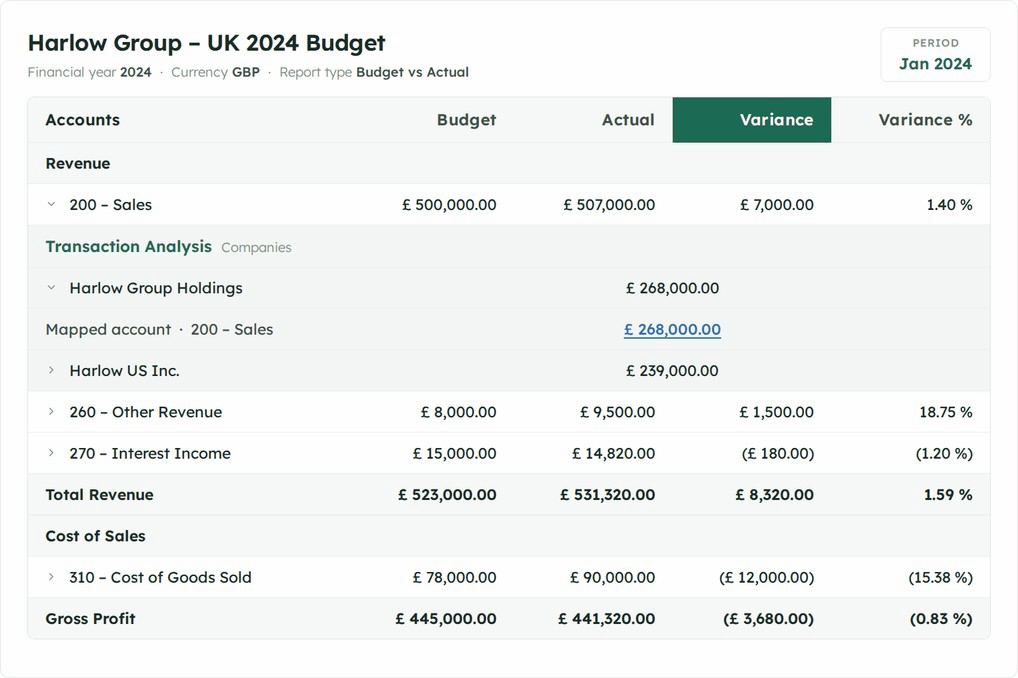
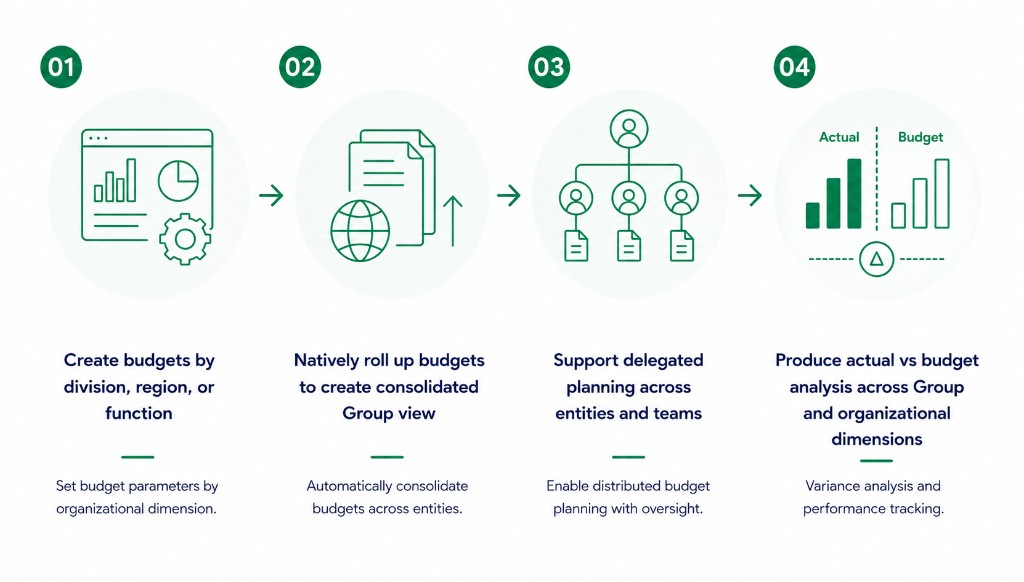
Update image sources and replace placeholders in group planning and reporting modules
- Updated image sources for group financial reporting and planning workflows to new versions for cache management.
- Replaced outdated screenshot placeholders with actual images for improved content relevance and user experience.

diff --git a/modules/group-reporting.html b/modules/group-reporting.html
@@ -40,7 +40,7 @@
     </div>
     <div class="mod-hero-media sr">
       <div class="screenshot-frame screenshot-frame--tall screenshot-frame--filled">
-        <img src="../assets/images/group-reporting-workflow.png?v=20260723e" alt="GATHER.nexus Consolidated P&amp;L Report showing subscriptions, transactions, and professional services with drill-down by company and mapped account across Jan–Mar" width="1024" height="699" loading="eager" decoding="async">
+        <img src="../assets/images/consolidated-pl-report.png?v=20260724a" alt="GATHER.nexus Consolidated P&amp;L Report showing subscriptions, transactions, and professional services with drill-down by company and mapped account across Jan–Mar" width="1024" height="699" loading="eager" decoding="async">
       </div>
     </div>
   </div>
@@ -100,13 +100,8 @@ BLOCKING: Cannot implement until client specifies exact requirement
     </div>
     <div class="mod-step-media sr sr-d1">
       <div class="mod-step-screenshots">
-        <div class="screenshot-frame screenshot-frame--tall" role="img" aria-label="Create GRT screenshot placeholder">
-          <div class="screenshot-frame__inner">
-            <div class="screenshot-frame__ic"><svg viewBox="0 0 24 24" fill="none" stroke="currentColor" stroke-width="1.8"><rect x="3" y="5" width="18" height="14" rx="2"/><circle cx="8.5" cy="10.5" r="1.5"/><path d="M21 16l-5.5-5.5L5 20"/></svg></div>
-            <span class="screenshot-frame__label">Create Group Reporting Template</span>
-            <p class="screenshot-frame__hint">Replace with GATHER GRT creation screenshot</p>
-            <span class="screenshot-frame__tag">Step 1 screenshot</span>
-          </div>
+        <div class="screenshot-frame screenshot-frame--tall screenshot-frame--filled">
+          <img src="../assets/images/create-group-reporting-template.png?v=20260724a" alt="GATHER.nexus Group Reporting Template setup showing Import, Choose Template, and Create Custom options with hierarchical Revenue account structure" loading="lazy" decoding="async">
         </div>
       </div>
     </div>
@@ -129,13 +124,8 @@ BLOCKING: Cannot implement until client specifies exact requirement
     </div>
     <div class="mod-step-media sr sr-d1">
       <div class="mod-step-screenshots">
-        <div class="screenshot-frame screenshot-frame--tall" role="img" aria-label="GRT mapping screenshot placeholder">
-          <div class="screenshot-frame__inner">
-            <div class="screenshot-frame__ic"><svg viewBox="0 0 24 24" fill="none" stroke="currentColor" stroke-width="1.8"><rect x="3" y="5" width="18" height="14" rx="2"/><circle cx="8.5" cy="10.5" r="1.5"/><path d="M21 16l-5.5-5.5L5 20"/></svg></div>
-            <span class="screenshot-frame__label">Map GRT: GL Mapping Interface</span>
-            <p class="screenshot-frame__hint">Replace with GATHER GRT mapping screenshot</p>
-            <span class="screenshot-frame__tag">Step 2 screenshot</span>
-          </div>
+        <div class="screenshot-frame screenshot-frame--tall screenshot-frame--filled">
+          <img src="../assets/images/ai-gl-mapping.png" alt="GATHER.nexus Group Reporting Template Mapping showing AI-assisted GL mapping with confidence scores, Automap with AI, and drag-and-drop from source accounts to GRT accounts" loading="lazy" decoding="async">
         </div>
       </div>
     </div>
@@ -157,13 +147,8 @@ BLOCKING: Cannot implement until client specifies exact requirement
     </div>
     <div class="mod-step-media sr sr-d1">
       <div class="mod-step-screenshots">
-        <div class="screenshot-frame screenshot-frame--tall" role="img" aria-label="Autojournals screenshot placeholder">
-          <div class="screenshot-frame__inner">
-            <div class="screenshot-frame__ic"><svg viewBox="0 0 24 24" fill="none" stroke="currentColor" stroke-width="1.8"><rect x="3" y="5" width="18" height="14" rx="2"/><circle cx="8.5" cy="10.5" r="1.5"/><path d="M21 16l-5.5-5.5L5 20"/></svg></div>
-            <span class="screenshot-frame__label">Create Autojournals</span>
-            <p class="screenshot-frame__hint">Replace with GATHER autojournals screenshot</p>
-            <span class="screenshot-frame__tag">Step 3 screenshot</span>
-          </div>
+        <div class="screenshot-frame screenshot-frame--tall screenshot-frame--filled">
+          <img src="../assets/images/auto-journals.png" alt="GATHER.nexus Setup Auto Journal showing intercompany elimination rule between Harlow Group Holdings and Harlow US Inc with Auto FX journals clearing to zero" loading="lazy" decoding="async">
         </div>
       </div>
     </div>
@@ -187,13 +172,8 @@ BLOCKING: Cannot implement until client specifies exact requirement
     </div>
     <div class="mod-step-media sr sr-d1">
       <div class="mod-step-screenshots">
-        <div class="screenshot-frame screenshot-frame--tall" role="img" aria-label="Working papers screenshot placeholder">
-          <div class="screenshot-frame__inner">
-            <div class="screenshot-frame__ic"><svg viewBox="0 0 24 24" fill="none" stroke="currentColor" stroke-width="1.8"><rect x="3" y="5" width="18" height="14" rx="2"/><circle cx="8.5" cy="10.5" r="1.5"/><path d="M21 16l-5.5-5.5L5 20"/></svg></div>
-            <span class="screenshot-frame__label">Consolidation Working Papers</span>
-            <p class="screenshot-frame__hint">Replace with GATHER working papers screenshot</p>
-            <span class="screenshot-frame__tag">Step 4 screenshot</span>
-          </div>
+        <div class="screenshot-frame screenshot-frame--tall screenshot-frame--filled">
+          <img src="../assets/images/consolidation-working-papers.png" alt="GATHER.nexus Complete Consolidation working papers showing Profit &amp; Loss with entity columns, intercompany eliminations, and consolidated totals for Harlow Group" loading="lazy" decoding="async">
         </div>
       </div>
     </div>
@@ -216,13 +196,8 @@ BLOCKING: Cannot implement until client specifies exact requirement
     </div>
     <div class="mod-step-media sr sr-d1">
       <div class="mod-step-screenshots">
-        <div class="screenshot-frame screenshot-frame--tall" role="img" aria-label="Manual journals screenshot placeholder">
-          <div class="screenshot-frame__inner">
-            <div class="screenshot-frame__ic"><svg viewBox="0 0 24 24" fill="none" stroke="currentColor" stroke-width="1.8"><rect x="3" y="5" width="18" height="14" rx="2"/><circle cx="8.5" cy="10.5" r="1.5"/><path d="M21 16l-5.5-5.5L5 20"/></svg></div>
-            <span class="screenshot-frame__label">Manual Journals Screen</span>
-            <p class="screenshot-frame__hint">Replace with GATHER manual topside adjustments screenshot</p>
-            <span class="screenshot-frame__tag">Step 5 screenshot</span>
-          </div>
+        <div class="screenshot-frame screenshot-frame--tall screenshot-frame--filled">
+          <img src="../assets/images/manual-journals.png" alt="GATHER.nexus Journals screen listing Auto FX, accrual, elimination, and GAAP adjustment journals with status, GRT, amounts, and actions" loading="lazy" decoding="async">
         </div>
       </div>
     </div>
@@ -245,13 +220,8 @@ BLOCKING: Cannot implement until client specifies exact requirement
     </div>
     <div class="mod-step-media sr sr-d1">
       <div class="mod-step-screenshots">
-        <div class="screenshot-frame screenshot-frame--tall" role="img" aria-label="Generate reports screenshot placeholder">
-          <div class="screenshot-frame__inner">
-            <div class="screenshot-frame__ic"><svg viewBox="0 0 24 24" fill="none" stroke="currentColor" stroke-width="1.8"><rect x="3" y="5" width="18" height="14" rx="2"/><circle cx="8.5" cy="10.5" r="1.5"/><path d="M21 16l-5.5-5.5L5 20"/></svg></div>
-            <span class="screenshot-frame__label">Generate Consolidated Reports</span>
-            <p class="screenshot-frame__hint">Replace with GATHER consolidated reports screenshot</p>
-            <span class="screenshot-frame__tag">Step 5 screenshot</span>
-          </div>
+        <div class="screenshot-frame screenshot-frame--tall screenshot-frame--filled">
+          <img src="../assets/images/consolidated-reports.png" alt="GATHER.nexus Consolidated Statement of Profit or Loss for Harlow Group showing monthly consolidated figures with multi-level drill-down by company and mapped account" loading="lazy" decoding="async">
         </div>
       </div>
     </div>

diff --git a/scripts/export-demo-double-arrow.js b/scripts/export-demo-double-arrow.js
@@ -1,0 +1,47 @@
+'use strict';
+
+const fs = require('fs');
+const path = require('path');
+const sharp = require('sharp');
+
+const OUT = path.join('E:', 'Satva-Work', 'Howard', 'New-Website', 'Website-Refresh-Images');
+fs.mkdirSync(OUT, { recursive: true });
+
+// CSS (.btn-demo-chevs): each chevron 9×14, first margin-right -4 → combined 14×14.
+// 2× of project icon base (128) → 256×256 (matches other icon exports).
+const outW = 256;
+const outH = 256;
+
+// Combined double-chevron matching the demo CTA (white on transparent).
+const svg = `<svg xmlns="http://www.w3.org/2000/svg" width="${outW}" height="${outH}" viewBox="0 0 15.556 14" fill="none">
+  <path d="M2.5 2.5 7.5 7l-5 4.5" stroke="#ffffff" stroke-width="1.9" stroke-linecap="round" stroke-linejoin="round" opacity="0.45"/>
+  <g transform="translate(5.556 0)">
+    <path d="M2.5 2.5 7.5 7l-5 4.5" stroke="#ffffff" stroke-width="2.1" stroke-linecap="round" stroke-linejoin="round"/>
+  </g>
+</svg>`;
+
+const baseName = 'icon-double-arrow-demo@2x';
+
+(async () => {
+  const raster = await sharp(Buffer.from(svg), { density: 300 })
+    .resize(outW, outH, { fit: 'contain', background: { r: 0, g: 0, b: 0, alpha: 0 } })
+    .png()
+    .toBuffer();
+
+  const png = await sharp(raster).png({ compressionLevel: 9 }).toBuffer();
+  const webp = await sharp(raster).webp({ quality: 92, alphaQuality: 100, effort: 6 }).toBuffer();
+
+  fs.writeFileSync(path.join(OUT, `${baseName}.png`), png);
+  fs.writeFileSync(path.join(OUT, `${baseName}.webp`), webp);
+  fs.writeFileSync(path.join(OUT, 'icon-double-arrow-demo.svg'), svg);
+
+  const meta = await sharp(raster).metadata();
+  console.log(`✓ ${baseName}`);
+  console.log(`  size: ${meta.width}x${meta.height}`);
+  console.log(`  png:  ${(png.length / 1024).toFixed(2)} KB`);
+  console.log(`  webp: ${(webp.length / 1024).toFixed(2)} KB`);
+  console.log(`  out:  ${OUT}`);
+})().catch((err) => {
+  console.error(err);
+  process.exit(1);
+});

diff --git a/scripts/export-cta-arrow.js b/scripts/export-cta-arrow.js
@@ -1,0 +1,43 @@
+'use strict';
+
+const fs = require('fs');
+const path = require('path');
+const sharp = require('sharp');
+
+const OUT = path.join('E:', 'Satva-Work', 'Howard', 'New-Website', 'Website-Refresh-Images');
+fs.mkdirSync(OUT, { recursive: true });
+
+// CSS (.btn .a): 14×14. 2× of project icon base (128) → 256×256.
+const outW = 256;
+const outH = 256;
+
+// Primary CTA arrow (Find out more / Free Trial) — white on transparent.
+const svg = `<svg xmlns="http://www.w3.org/2000/svg" width="${outW}" height="${outH}" viewBox="0 0 14 14" fill="none">
+  <path d="M3 7h8M8 3l4 4-4 4" stroke="#ffffff" stroke-width="1.8" stroke-linecap="round" stroke-linejoin="round"/>
+</svg>`;
+
+const baseName = 'icon-arrow-cta@2x';
+
+(async () => {
+  const raster = await sharp(Buffer.from(svg), { density: 300 })
+    .resize(outW, outH, { fit: 'contain', background: { r: 0, g: 0, b: 0, alpha: 0 } })
+    .png()
+    .toBuffer();
+
+  const png = await sharp(raster).png({ compressionLevel: 9 }).toBuffer();
+  const webp = await sharp(raster).webp({ quality: 92, alphaQuality: 100, effort: 6 }).toBuffer();
+
+  fs.writeFileSync(path.join(OUT, `${baseName}.png`), png);
+  fs.writeFileSync(path.join(OUT, `${baseName}.webp`), webp);
+  fs.writeFileSync(path.join(OUT, 'icon-arrow-cta.svg'), svg);
+
+  const meta = await sharp(raster).metadata();
+  console.log(`✓ ${baseName}`);
+  console.log(`  size: ${meta.width}x${meta.height}`);
+  console.log(`  png:  ${(png.length / 1024).toFixed(2)} KB`);
+  console.log(`  webp: ${(webp.length / 1024).toFixed(2)} KB`);
+  console.log(`  out:  ${OUT}`);
+})().catch((err) => {
+  console.error(err);
+  process.exit(1);
+});

diff --git a/HomePage.html b/HomePage.html
@@ -1659,7 +1659,7 @@ footer{background:var(--ink);padding:72px 0 28px;color:var(--text-light)}
             </aside></div>
           <div class="journey-visual-hero"><div class="journey-visual-frame">
                 <div class="journey-visual-caption"><span>Module 02</span><span>Consolidation workflow</span></div>
-                <img src="assets/images/group-reporting-workflow.png?v=20260723e" alt="Group financial reporting workflow from mapping through reports" loading="lazy" decoding="async">
+                <img src="assets/images/group-reporting-workflow.png?v=20260724b" alt="Group financial reporting workflow from mapping through reports" loading="lazy" decoding="async">
               </div></div>
           </div>
         </article>
@@ -1680,7 +1680,7 @@ footer{background:var(--ink);padding:72px 0 28px;color:var(--text-light)}
             </aside></div>
           <div class="journey-visual-hero"><div class="journey-visual-frame">
                 <div class="journey-visual-caption"><span>Module 05</span><span>Group Financial Planning</span></div>
-                <img src="assets/images/group-planning-workflow.png?v=20260723e" alt="Group Financial Planning workflow with budget roll-up and actuals vs budget analysis" loading="lazy" decoding="async">
+                <img src="assets/images/group-planning-workflow.png?v=20260724b" alt="Group Financial Planning workflow with budget roll-up and actuals vs budget analysis" loading="lazy" decoding="async">
               </div></div>
           </div>
         </article>

diff --git a/index.html b/index.html
@@ -1659,7 +1659,7 @@ footer{background:var(--ink);padding:72px 0 28px;color:var(--text-light)}
             </aside></div>
           <div class="journey-visual-hero"><div class="journey-visual-frame">
                 <div class="journey-visual-caption"><span>Module 02</span><span>Consolidation workflow</span></div>
-                <img src="assets/images/group-reporting-workflow.png?v=20260723e" alt="Group financial reporting workflow from mapping through reports" loading="lazy" decoding="async">
+                <img src="assets/images/group-reporting-workflow.png?v=20260724b" alt="Group financial reporting workflow from mapping through reports" loading="lazy" decoding="async">
               </div></div>
           </div>
         </article>
@@ -1680,7 +1680,7 @@ footer{background:var(--ink);padding:72px 0 28px;color:var(--text-light)}
             </aside></div>
           <div class="journey-visual-hero"><div class="journey-visual-frame">
                 <div class="journey-visual-caption"><span>Module 05</span><span>Group Financial Planning</span></div>
-                <img src="assets/images/group-planning-workflow.png?v=20260723e" alt="Group Financial Planning workflow with budget roll-up and actuals vs budget analysis" loading="lazy" decoding="async">
+                <img src="assets/images/group-planning-workflow.png?v=20260724b" alt="Group Financial Planning workflow with budget roll-up and actuals vs budget analysis" loading="lazy" decoding="async">
               </div></div>
           </div>
         </article>

diff --git a/modules/group-planning.html b/modules/group-planning.html
@@ -40,7 +40,7 @@
     </div>
     <div class="mod-hero-media sr">
       <div class="screenshot-frame screenshot-frame--tall screenshot-frame--filled">
-        <img src="../assets/images/group-planning-workflow.png?v=20260723e" alt="GATHER.nexus Harlow Group UK 2024 Budget vs Actual report with multi-level drill-down from sales through companies to mapped accounts" width="1018" height="678" loading="eager" decoding="async">
+        <img src="../assets/images/budget-vs-actual-report.png?v=20260724a" alt="GATHER.nexus Harlow Group UK 2024 Budget vs Actual report with multi-level drill-down from sales through companies to mapped accounts" width="1018" height="678" loading="eager" decoding="async">
       </div>
     </div>
   </div>